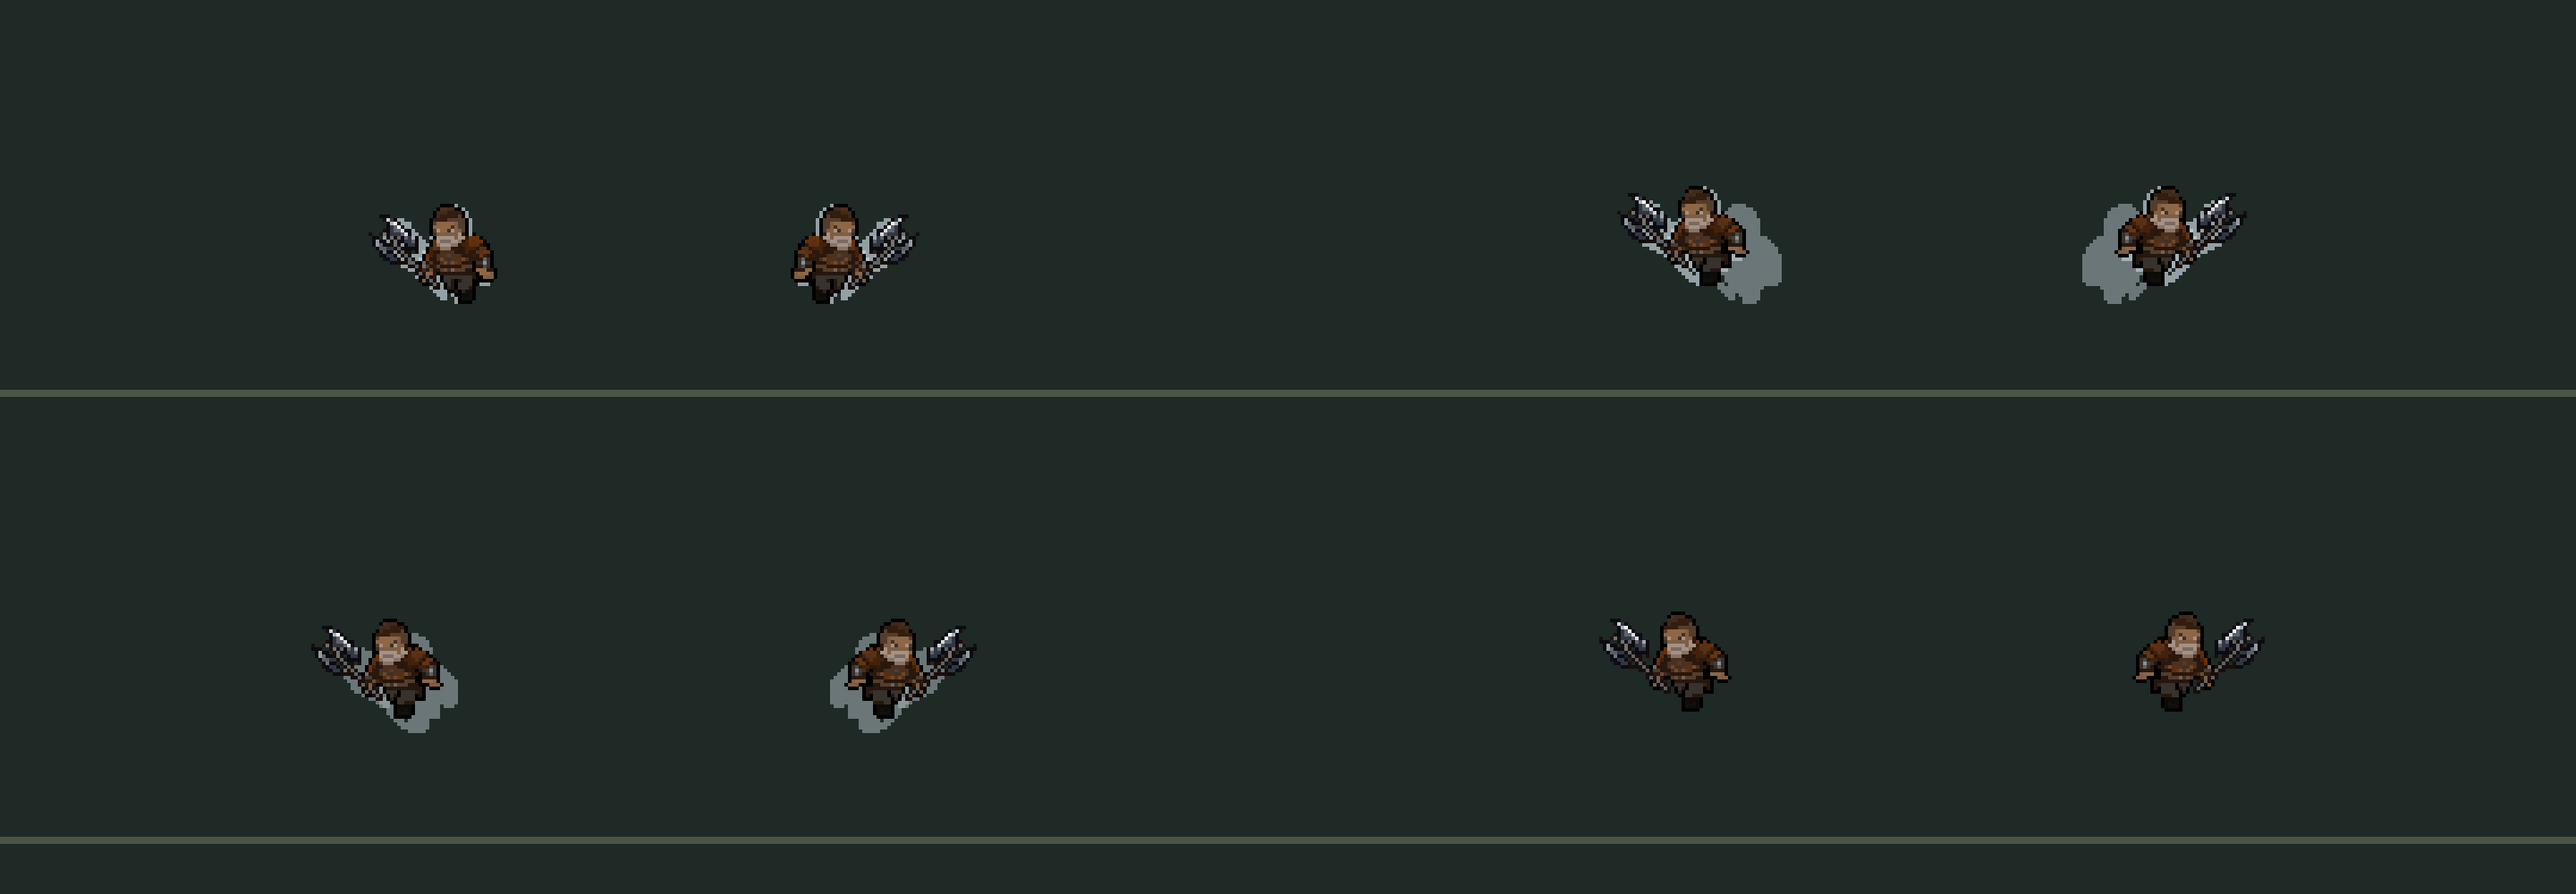
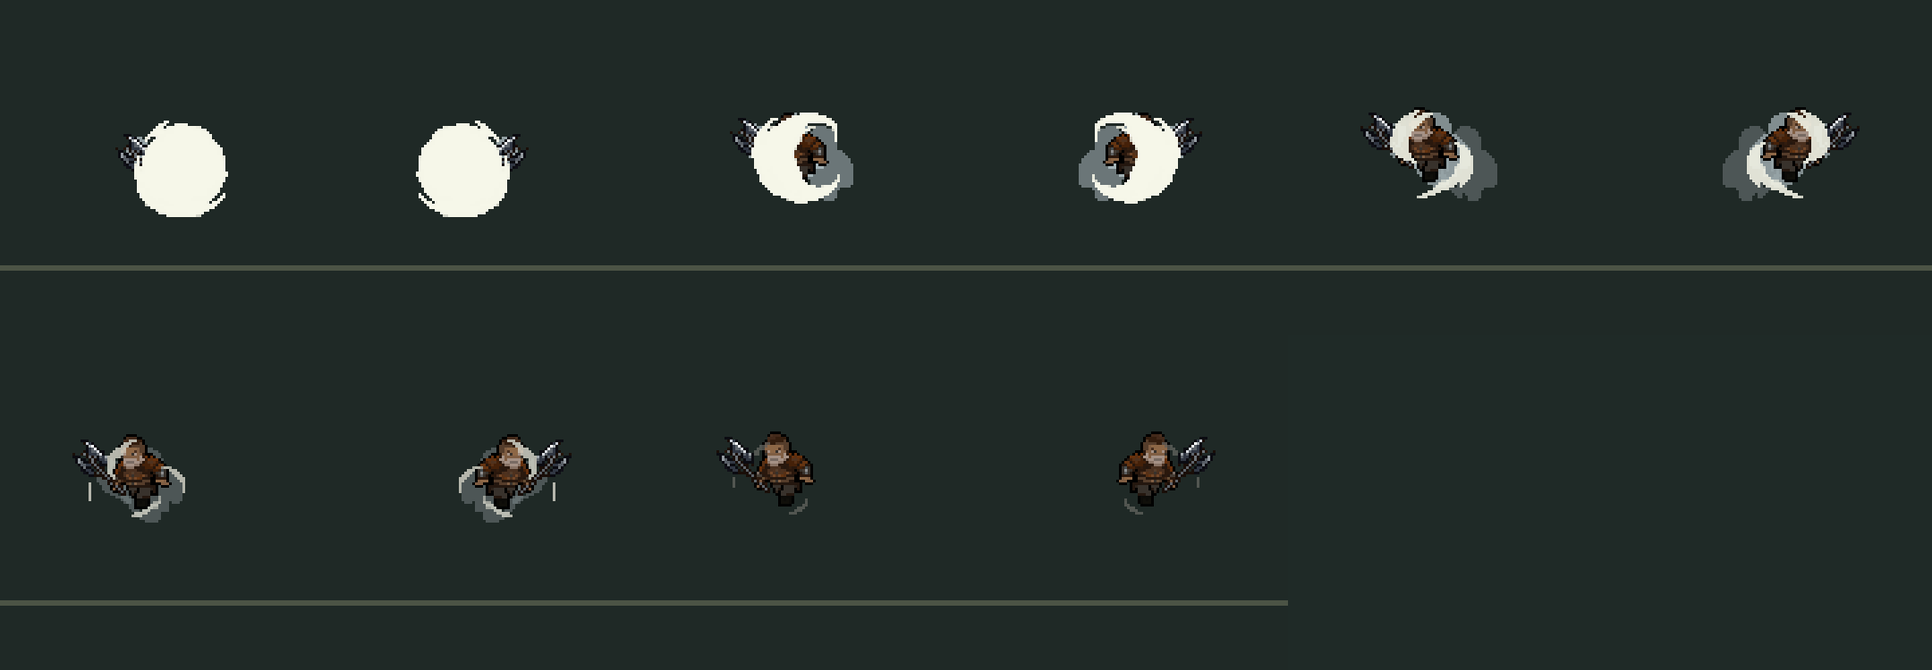
upgrade dash

diff --git a/Assets/Editor/VFX/DashJumpVfxBuilder.cs b/Assets/Editor/VFX/DashJumpVfxBuilder.cs
@@ -61,8 +61,20 @@ namespace RelicKeeper.Editor.VFX
                 for (int x = 0; x < size; x++)
                 {
                     // Keep the same cell coordinates in every frame: drifting remnants must not be recentered.
-                    Color32 pixel = source.GetPixel(frame % columns * cellWidth + (int)((size-x-0.5f)*cellWidth/size),
-                        (rows-1-frame/columns)*cellHeight + (int)((y+0.5f)*cellHeight/size));
+                    Color32 pixel;
+                    if (name == "StationaryDodge")
+                    {
+                        // The generated strip has tall cells. Sample a shared square window
+                        // without stretching the circular burst into a flattened ellipse.
+                        float window = cellWidth * 1.2f;
+                        int sourceX = (int)((cellWidth-window)*0.5f+(size-x-0.5f)*window/size);
+                        int sourceY = (int)((cellHeight-window)*0.5f+(y+0.5f)*window/size);
+                        pixel = sourceX < 0 || sourceX >= cellWidth || sourceY < 0 || sourceY >= cellHeight
+                            ? default : (Color32)source.GetPixel(frame*cellWidth+sourceX,sourceY);
+                    }
+                    else
+                        pixel = source.GetPixel(frame % columns * cellWidth + (int)((size-x-0.5f)*cellWidth/size),
+                            (rows-1-frame/columns)*cellHeight + (int)((y+0.5f)*cellHeight/size));
                     if (pixel.a < 150 || pixel.b > pixel.r + 35 || pixel.g > pixel.r + 35) continue;
                     byte alpha = (byte)(pixel.a * (frame < count-3 ? 1f : frame == count-3 ? 0.8f : frame == count-2 ? 0.5f : 0.15f));
                     pixel = pixel.r > 205 ? new Color32(246,247,233,alpha)
@@ -94,7 +106,7 @@ namespace RelicKeeper.Editor.VFX
                             if (index >= size) queue.Enqueue(index-size);
                             if (index < size*(size-1)) queue.Enqueue(index+size);
                         }
-                        if (component.Count < (frame < 6 ? 4 : 2))
+                        if (component.Count < (frame < count-2 ? 4 : 2))
                             foreach (int index in component) pixels[index] = default;
                     }
                 }

diff --git a/Assets/Editor/VFX/WarriorMovementPreview.cs b/Assets/Editor/VFX/WarriorMovementPreview.cs
@@ -253,7 +253,7 @@ namespace RelicKeeper.Editor.VFX
                             var effect = new GameObject("Stationary dodge preview");
                             effect.transform.SetParent(actors[side], false);
                             effect.transform.position = new Vector3(position.x, position.y-0.05f, 0);
-                            effect.transform.localScale = Vector3.one * (2.1f / stationaryFrames[0].bounds.size.y);
+                            effect.transform.localScale = Vector3.one * (1.8f / stationaryFrames[0].bounds.size.y);
                             var overlay = effect.AddComponent<SpriteSheetOverlayVfx>();
                             overlay.Initialize(stationaryFrames,0.28f,1f,displays[side].sortingLayerID,3);
                             overlay.SetFadeOut(0.8f);

diff --git a/Assets/Tests/EditMode/Editor/GroundDashVisualTests.cs b/Assets/Tests/EditMode/Editor/GroundDashVisualTests.cs
@@ -123,7 +123,7 @@ namespace RelicKeeper.Tests.EditMode
                 var renderer = overlays[0].GetComponent<SpriteRenderer>();
                 Assert.That(renderer.sprite,Is.SameAs(frames[0]));
                 Assert.That(renderer.color.a,Is.EqualTo(1f),"The first cover frame must appear immediately.");
-                Assert.That(renderer.bounds.size.y,Is.EqualTo(2.1f).Within(0.001f));
+                Assert.That(renderer.bounds.size.y,Is.EqualTo(1.8f).Within(0.001f));
                 Assert.That(typeof(SpriteSheetOverlayVfx).GetField("_duration",Private).GetValue(overlays[0]),Is.EqualTo(0.28f));
                 Assert.That(overlays[0].transform.position.y,Is.EqualTo(collider.bounds.min.y+collider.bounds.size.y*0.45f).Within(0.001f));
                 Rect first = frames[0].rect;

diff --git a/Assets/Scripts/PlayerBasicScripts/PlayerAttackInput.cs b/Assets/Scripts/PlayerBasicScripts/PlayerAttackInput.cs
@@ -76,7 +76,7 @@ public class PlayerAttackInput : MonoBehaviour
     [SerializeField, Range(0.7f, 1f)] private float _stationaryDodgeScaleY = 0.86f;
     [SerializeField, Min(0.05f)] private float _stationaryDodgeVfxDuration = 0.28f;
     [SerializeField, Range(0f, 1f)] private float _stationaryDodgeVfxAlpha = 1f;
-    [SerializeField, Min(0.5f)] private float _stationaryDodgeVfxHeightRelativeToBody = 2.1f;
+    [SerializeField, Min(0.5f)] private float _stationaryDodgeVfxHeightRelativeToBody = 1.8f;
     [SerializeField, Range(0f, 1f)] private float _stationaryDodgeVfxBodyAnchor = 0.45f;
     [SerializeField, Range(0f, 0.99f)] private float _stationaryDodgeVfxFadeStart = 0.8f;
     [SerializeField, HideInInspector] private float _stationaryDodgeVfxFlashRise = 0.12f;

diff --git a/Docs/StationaryDodgeVfx.md b/Docs/StationaryDodgeVfx.md
@@ -1,13 +1,11 @@
-# Stationary dodge feedback
+# Dodge cover feedback
 
-Stationary dodges use a large bright ivory evasive burst on both ground and air takeoff. PlayerAttackInput.SpawnDodgeFeedback selects it exclusively when _isStationaryDodge is true. Directional feedback and afterimages keep their existing behavior. Dodge movement, cooldowns and invulnerability are unchanged.
+Stationary ground dodges and all air dodges use a bright five-frame burst: immediate solid circle, opening crescent, separated ribbons, thinning streaks and drifting remnants. There is no buildup. Playback lasts at least 280 ms; the final frame fades to zero. Directional air dodges retain light body and weapon afterimages and no longer emit legacy black overlays.
 
-Eight 40x40 frames at 24 PPU: a closing crescent, solid-volume artwork across two peak frames, then opening crescents and thinning remnants. The importer removes isolated export speckles without cutting out the centre. Effect height stays 2.1 times collider height and playback is at least 400 ms. Opacity now uses a short steep S-curve flash instead of a constant translucent fade: zero on creation, rise to 85% by 12% of playback (48 ms), brief hold through 40% (160 ms), sharp quintic fall to zero by 60% (240 ms), then remain invisible. SpriteSheetOverlayVfx opacity pulses are opt-in; other overlays retain their prior opacity. The effect attaches to the actor outside the compressed weapon Visuals hierarchy. Both ground and air centre at collider feet plus 45% of collider height, anchoring the swirl to the torso.
+The full sprite rectangle is 1.8 times collider height, reduced from 2.1 (about 14%). Ground and air attach at collider feet plus 45% of collider height, centered on the torso. Directional ground dash behavior is unchanged.
 
-GroundingVisualController suppresses legacy dash dust/scrape for IsStationaryDodging, preventing a dark secondary burst from layering over the new effect.
+Built-in imagegen prompt: exactly five transparent frames in one horizontal strip; bold opaque ivory circular coverage immediately in frame one, then four distinct dissolution poses: opening bite, separated curved ribbons, thin outward drifting streaks, tiny curved remnants. Crisp broad pixels, minimal pale gray accents, no black, characters, floor or glow. Stable center and scale, simple readable evasive twist rather than detailed smoke or shield outline.
 
-Built-in imagegen prompt: eight transparent frames in a 4x2 grid, much stronger white stationary-dodge burst inspired by the three user panda dodge references; broad closing crescent, fully opaque ivory spinning volume in frames 3 and 4 covering the entire hero, then huge peeling crescents and fading curved remnants. Organic hooked silhouette rather than a geometric shield, crisp native40x40 pixels, minimal pale shadow, no characters/ground/background. Peak shape fills 80-90% of the cell with consistent centre and scale; no transparent hole at the peak.
+Source: Docs/Art/MovementVfx/StationaryDodgeSource.png. Runtime: Assets/Resources/VFX/Dodge/StationaryDodge-Sheet.png, five 40x40 sprites at 24 PPU. Reimport with DashJumpVfxBuilder.ImportStationaryDodge. The importer uses a shared square sampling window to preserve circular proportions and fragment positions, maps the palette and removes export speckles.
 
-Generated source: Docs/Art/MovementVfx/StationaryDodgeSource.png. Runtime: Assets/Resources/VFX/Dodge/StationaryDodge-Sheet.png. Reimport: DashJumpVfxBuilder.ImportStationaryDodge. Previous stand_dodge-Sheet remains for directional legacy feedback.
-
-Validation: GroundDashVisualTests (12 cases), including ground/air selection, single-effect emission, torso anchor, zero initial opacity, bright pulse peak, steep fall and early zero opacity, opt-in compatibility for legacy overlays, solid centre in the peak artwork, suppressed legacy dust, and body/weapon afterimage ownership. Controlled Play Mode preview: WarriorMovementPreview.CaptureStationaryDodgeRuntimeViews, ground left and air right.
+Validation: exact GroundDashVisualTests filter (13 cases), including stationary ground/air and directional air selection, immediate opaque coverage, five distinct silhouettes, torso anchor, reduced scale, final fade, legacy opacity compatibility and body/weapon afterimages. Controlled runtime previews use WarriorMovementPreview.CaptureStationaryDodgeRuntimeViews and CaptureAirDodgeRuntimeViews.
